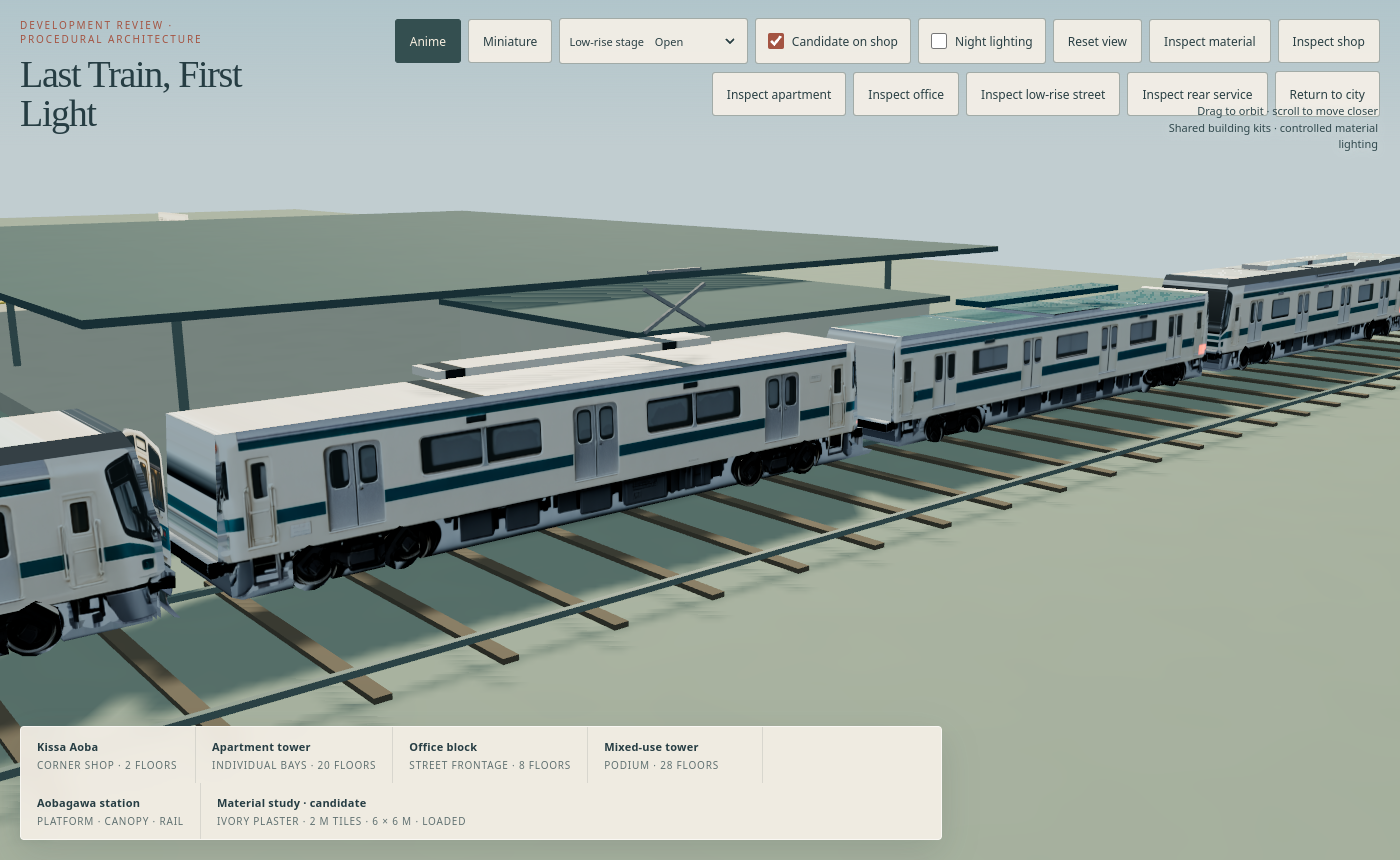
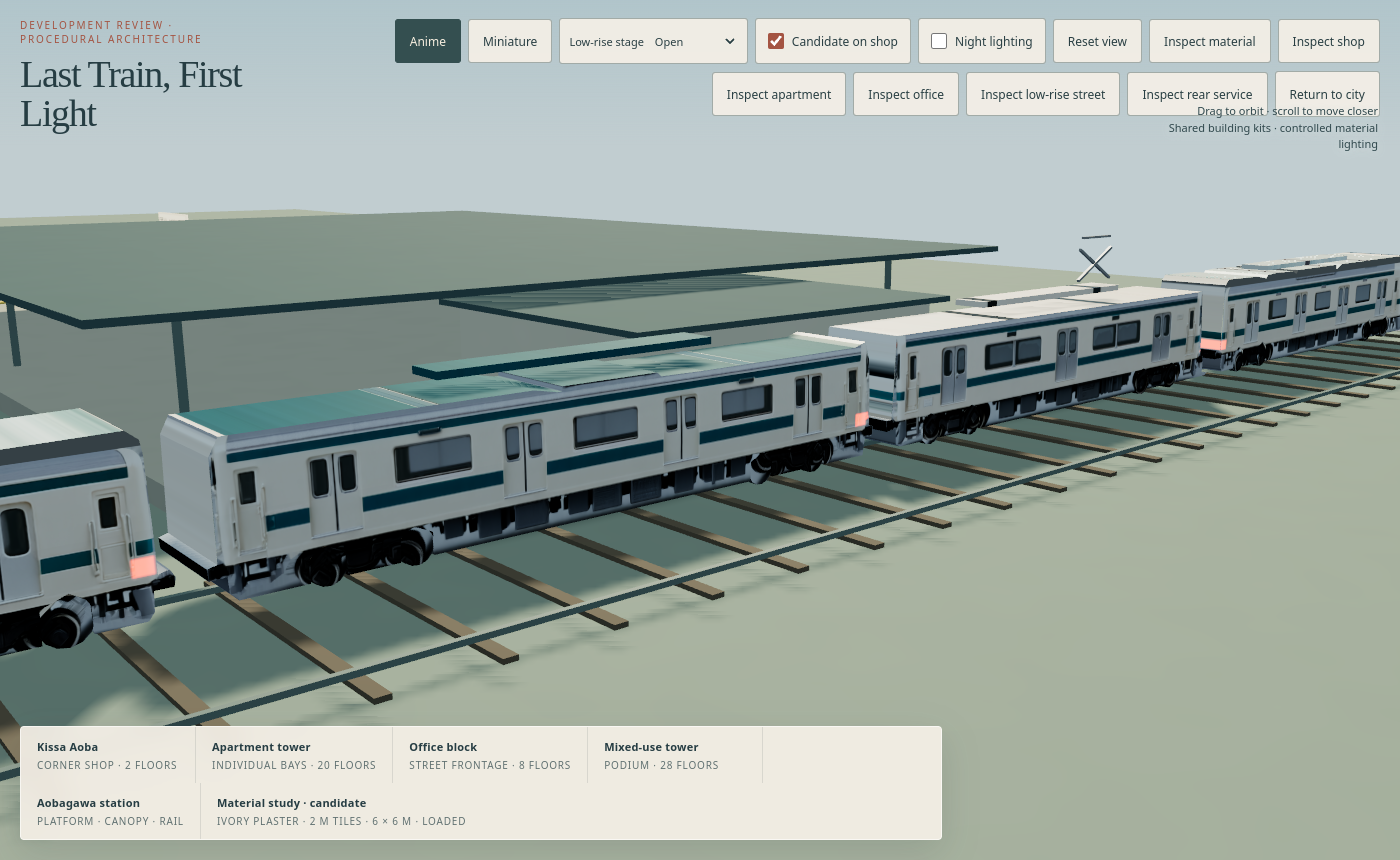
Fix train fleet lifecycle, capacities and cab direction (PR #13 review)
- city.ts calls trainFleet.begin() each frame and trainFleet.reset() on world
  reset, so transforms no longer accumulate or freeze.
- TrainFleet sizes each role's instance buffer by its multiplicity (cab twice
  per consist) and shadows by total cars; eight consists now render 32 cars.
- consistCars() puts the leading car at +offset so both cab faces and lamps
  point outward; only the trailing car is mirrored.
- Regression tests for multiplicity, per-frame reset and cab direction; fix the
  vitest config typing.

Changed region(s): [[0.0, 0.2721, 1.0, 0.786], [0.6143, 0.5744, 0.645, 0.6047], [0.0614, 0.8163, 0.0921, 0.8465]]

diff --git a/tests/trains.test.ts b/tests/trains.test.ts
@@ -6,43 +6,72 @@ import { consistCars } from '../web/src/render/train-kit';
 
 afterEach(() => vi.unstubAllGlobals());
 
+function fakeDocument() {
+  vi.stubGlobal('document', { createElement: () => ({ width: 0, height: 0, getContext: () => ({ fillRect() {}, fillText() {}, strokeRect() {} }) }) });
+}
+
+const CAR_COUNT = consistCars().length;
+
 describe('train fleet', () => {
-  it('places every car of a consist and reports the shared id for picking', () => {
-    vi.stubGlobal('document', { createElement: () => ({ width: 0, height: 0, getContext: () => ({ fillRect() {}, fillText() {}, strokeRect() {} }) }) });
+  it('sizes each role buffer by its multiplicity, not one per train', () => {
+    fakeDocument();
     const art = new ArtMaterials(), fleet = new TrainFleet(art, 8);
     fleet.begin();
-    fleet.add(7, 10, 20, Math.PI / 2, 6, 0, 1 / 60);
-    fleet.finish(1);
-    const counts = fleet.meshes.map(m => m.count);
-    expect(counts.reduce((a, b) => a + b, 0)).toBe(consistCars().length);
-    const ids = fleet.pickable.flatMap(p => p.ids);
-    expect(ids.length).toBe(consistCars().length);
-    expect(new Set(ids)).toEqual(new Set([7]));
+    for (let i = 0; i < 8; i++) fleet.add(100 + i, i * 120, 0, 0, 6, 0, 1 / 60);
+    fleet.finish(8);
+    const total = fleet.meshes.reduce((sum, mesh) => sum + mesh.count, 0);
+    // Eight four-car consists: two cabs per consist must not be silently dropped.
+    expect(total).toBe(CAR_COUNT * 8);
+    // The cab role carries two instances per consist, so it must exceed eight.
+    expect(fleet.meshes.filter(mesh => mesh.count === 16)).toHaveLength(1);
     fleet.dispose(); art.dispose();
   });
 
-  it('places the consist along its heading and mirrors the trailing cab', () => {
-    vi.stubGlobal('document', { createElement: () => ({ width: 0, height: 0, getContext: () => ({ fillRect() {}, fillText() {}, strokeRect() {} }) }) });
-    const art = new ArtMaterials(), fleet = new TrainFleet(art, 8);
+  it('resets counts and rewrites transforms every begin(), so city frames do not accumulate', () => {
+    fakeDocument();
+    const art = new ArtMaterials(), fleet = new TrainFleet(art, 4);
+    fleet.begin();
+    fleet.add(5, 0, 0, 0, 0, 0, 1 / 60);
+    fleet.finish(1);
+    const before = fleet.meshes.reduce((sum, mesh) => sum + mesh.count, 0);
+    // A later frame at a new position must land in slot zero, not a new slot.
+    fleet.begin();
+    fleet.add(5, 9, 0, 0, 0, 0, 1 / 60);
+    fleet.finish(1);
+    const after = fleet.meshes.reduce((sum, mesh) => sum + mesh.count, 0);
+    expect(before).toBe(CAR_COUNT);
+    expect(after).toBe(CAR_COUNT);
+    const matrix = new THREE.Matrix4();
+    const cab = fleet.meshes.find(mesh => mesh.count === 2)!;
+    cab.getMatrixAt(0, matrix);
+    expect(new THREE.Vector3().setFromMatrixPosition(matrix).x).toBeCloseTo(9, 3);
+    fleet.dispose(); art.dispose();
+  });
+
+  it('points the leading cab along the heading and the trailing cab backwards', () => {
+    fakeDocument();
+    const art = new ArtMaterials(), fleet = new TrainFleet(art, 2);
     fleet.begin();
     fleet.add(3, 0, 0, 0, 0, 0, 1 / 60);
     fleet.finish(1);
-    const cars = consistCars();
-    for (const mesh of fleet.meshes) {
-      const matrix = new THREE.Matrix4();
-      for (let i = 0; i < mesh.count; i++) {
-        mesh.getMatrixAt(i, matrix);
-        const p = new THREE.Vector3().setFromMatrixPosition(matrix);
-        // Heading 0 puts forward along +z; every car sits at its offset.
-        expect(cars.some(c => Math.abs(p.z - c.offset) < 1e-3)).toBe(true);
-      }
+    const cab = fleet.meshes.find(mesh => mesh.count === 2)!;
+    const matrix = new THREE.Matrix4(), pos = new THREE.Vector3(), xAxis = new THREE.Vector3(), yAxis = new THREE.Vector3(), zAxis = new THREE.Vector3();
+    const forwards: number[] = [];
+    for (let i = 0; i < cab.count; i++) {
+      cab.getMatrixAt(i, matrix);
+      pos.setFromMatrixPosition(matrix);
+      matrix.extractBasis(xAxis, yAxis, zAxis);
+      // Heading 0 is +z; the front cap is local +z. Forward must point away from centre.
+      forwards.push(Math.sign(pos.z) * zAxis.z);
     }
+    expect(forwards.length).toBe(2);
+    expect(forwards.every(f => f > .9), `both cabs face outward, got ${forwards}`).toBe(true);
     fleet.dispose(); art.dispose();
   });
 
   it('exports a half-length that matches the consist span', () => {
-    const spec = consistCars();
-    const span = Math.abs(spec[spec.length - 1].offset - spec[0].offset) + 20;
+    const cars = consistCars();
+    const span = Math.abs(cars[cars.length - 1].offset - cars[0].offset) + 20;
     expect(TRAIN_HALF_LENGTH * 2).toBeCloseTo(span, 1);
   });
 });

diff --git a/web/src/render/trains.ts b/web/src/render/trains.ts
@@ -8,7 +8,7 @@ import { VehicleMotion } from './vehicles';
 /** Half the consist length; mirrors engine/src/lib.rs TRAIN_HALF_LENGTH. */
 export const TRAIN_HALF_LENGTH = consistHalfLength();
 
-interface Slot { mesh: THREE.InstancedMesh; state: THREE.InstancedBufferAttribute; ids: number[]; count: number }
+interface Slot { mesh: THREE.InstancedMesh; state: THREE.InstancedBufferAttribute; ids: number[]; count: number; capacity: number }
 
 function instanced(geometry: THREE.BufferGeometry, material: THREE.Material, capacity: number) {
   const mesh = new THREE.InstancedMesh(geometry, material, capacity);
@@ -19,13 +19,16 @@ function instanced(geometry: THREE.BufferGeometry, material: THREE.Material, cap
 
 /**
  * Instanced train consists. The engine reports one movement point per train
- * (kind 2); the fleet expands it into the manifest's cars, places the cab at
- * the leading end and mirrors the trailing cab, and rolls every wheel.
+ * (kind 2); the fleet expands it into the manifest's cars, places the leading
+ * cab at +offset along the heading and mirrors the trailing cab, and rolls every
+ * wheel. Each role's instance buffer is sized by how often it appears in the
+ * consist, so a cab is not capped at one per train.
  */
 export class TrainFleet {
   readonly root = new THREE.Group();
   private slots = new Map<TrainCar, Slot>();
   private shadows: THREE.InstancedMesh;
+  private shadowCapacity: number;
   private shadowCount = 0;
   private matrix = new THREE.Matrix4();
   private pose = new THREE.Object3D();
@@ -36,19 +39,22 @@ export class TrainFleet {
     const material = trainMaterial(art);
     const roles: TrainCar[] = ['cab', 'trailer', 'motor'];
     for (const role of roles) {
+      const roleCapacity = this.cars.filter(car => car.role === role).length * capacity;
+      if (roleCapacity === 0) continue;
       const geometry = buildTrainCar(TRAIN_CLASS, role);
-      const mesh = instanced(geometry, material, capacity);
-      const state = new THREE.InstancedBufferAttribute(new Float32Array(capacity * 4), 4);
+      const mesh = instanced(geometry, material, roleCapacity);
+      const state = new THREE.InstancedBufferAttribute(new Float32Array(roleCapacity * 4), 4);
       state.setUsage(THREE.DynamicDrawUsage);
       geometry.setAttribute('vstate', state);
-      this.slots.set(role, { mesh, state, ids: [], count: 0 });
+      this.slots.set(role, { mesh, state, ids: [], count: 0, capacity: roleCapacity });
       this.root.add(mesh);
     }
     const plane = new THREE.PlaneGeometry(1, 1); plane.rotateX(-Math.PI / 2);
     const shade = new THREE.MeshBasicNodeMaterial({ color: '#1d2526', transparent: true, depthWrite: false });
     const d = uv().sub(vec2(.5, .5)).mul(vec2(2, 2)).length();
     shade.opacityNode = smoothstep(float(1), float(.35), d).mul(.42).sub(art.night.mul(.12));
-    this.shadows = new THREE.InstancedMesh(plane, shade, capacity);
+    this.shadowCapacity = this.cars.length * capacity;
+    this.shadows = new THREE.InstancedMesh(plane, shade, this.shadowCapacity);
     this.shadows.count = 0; this.shadows.frustumCulled = false; this.shadows.renderOrder = 1;
     this.shadows.instanceMatrix.setUsage(THREE.DynamicDrawUsage);
     this.root.add(this.shadows);
@@ -66,7 +72,7 @@ export class TrainFleet {
     const m = this.motion.update(id, x, z, yaw, spec.length * 2, dt);
     for (const car of this.cars) {
       const slot = this.slots.get(car.role)!;
-      if (slot.count >= this.capacity) continue;
+      if (slot.count >= slot.capacity) continue;
       const i = slot.count++;
       const cx = x + forwardX * car.offset, cz = z + forwardZ * car.offset;
       const carYaw = car.trailing ? yaw + Math.PI : yaw;
@@ -77,7 +83,7 @@ export class TrainFleet {
       slot.mesh.setMatrixAt(i, this.pose.matrix);
       slot.state.setXYZW(i, m.odo, 0, carYaw, m.brake);
       slot.ids[i] = id;
-      if (this.shadowCount < this.capacity) {
+      if (this.shadowCount < this.shadowCapacity) {
         this.pose.position.y = lift + .02; this.pose.scale.set(spec.width + .4, 1, spec.length + .4); this.pose.updateMatrix();
         this.shadows.setMatrixAt(this.shadowCount++, this.pose.matrix);
       }

diff --git a/web/src/render/city.ts b/web/src/render/city.ts
@@ -321,7 +321,7 @@ export class CityRenderer {
   }
   private resetWorld(){
     this.focusResetPending=true;
-    this.umbrellas.reset();this.buses.reset();this.fleet.reset();this.accessPaths.reset();this.rearExtensions.reset();this.umbrellaCount=0;this.qualityController.reset();
+    this.umbrellas.reset();this.buses.reset();this.fleet.reset();this.trainFleet.reset();this.accessPaths.reset();this.rearExtensions.reset();this.umbrellaCount=0;this.qualityController.reset();
     this.chunks.clear();
     this.buildings.clear();
     this.retireGroup(this.terrain);const near=this.treeNearGeometry,far=this.treeFarGeometry;this.retire(()=>{near?.dispose();far?.dispose();});this.treeNearGeometry=null;this.treeFarGeometry=null;this.treeBatches=[];this.terrain=new THREE.Group();this.scene.add(this.terrain);
@@ -580,7 +580,7 @@ export class CityRenderer {
     if(this.frame++%90===0&&this.onMetrics){const avg=this.frames.reduce((a,b)=>a+b,0)/this.frames.length;this.onMetrics({fps:1000/avg,frameMs:cost,calls:this.renderer.info.render.drawCalls,triangles:this.renderer.info.render.triangles,textures:this.renderer.info.memory.textures,geometries:this.renderer.info.memory.geometries,backend:this.renderer.backend.constructor.name,styleSwitch:this.styleSwitchMetrics?{...this.styleSwitchMetrics}:undefined,pendingBuildings:this.objectQueue.size,pendingChunks:this.chunks.pendingCount});}
   }
   private updateActors(now:number){
-    const t=Math.min(1,(now-this.received)/this.interval);let ped=0,train=0,bus=0;const dt=this.lastActorFrame?Math.min(.1,(now-this.lastActorFrame)/1000):1/60;this.lastActorFrame=now;this.buses.begin(now);this.fleet.begin();const pedIds:number[]=[],trainIds:number[]=[];
+    const t=Math.min(1,(now-this.received)/this.interval);let ped=0,train=0,bus=0;const dt=this.lastActorFrame?Math.min(.1,(now-this.lastActorFrame)/1000):1/60;this.lastActorFrame=now;this.buses.begin(now);this.fleet.begin();this.trainFleet.begin();const pedIds:number[]=[],trainIds:number[]=[];
     for(const [id,current]of this.current){const old=this.previous.get(id)??current,x=THREE.MathUtils.lerp(old.x,current.x,t),z=THREE.MathUtils.lerp(old.z,current.z,t);let h=current.h;const dh=Math.atan2(Math.sin(current.h-old.h),Math.cos(current.h-old.h));h=Math.PI/2-(old.h+dh*t);const lift=current.k===2?0:bridgeLift({x,z},this.bridgeSpans);
       if(current.k===0&&ped<2000){const offset=ped*5;this.umbrellaTuples[offset]=id;this.umbrellaTuples[offset+1]=x;this.umbrellaTuples[offset+2]=z;this.umbrellaTuples[offset+3]=Math.PI/2-h;this.umbrellaTuples[offset+4]=0;const moving=Math.hypot(current.x-old.x,current.z-old.z)>.01;const step=moving?Math.sin(this.motionTick*.31+id)*.045:0;dummy.position.set(x,1.05+step+lift,z);dummy.rotation.set(0,h,moving?step*.4:0);dummy.scale.setScalar(1);dummy.updateMatrix();this.pedestrians.setMatrixAt(ped,dummy.matrix);this.pedestrians.setColorAt(ped,personColors[id%personColors.length]);dummy.position.y=1.95+step+lift;dummy.updateMatrix();this.heads.setMatrixAt(ped,dummy.matrix);pedIds[ped]=id;ped++;}
       else if(isRoadVehicle(current.k)){const vehicle=bridgeVehiclePose({x,z},h,2.7,this.bridgeSpans);this.fleet.add(id,current.k,x,z,h,vehicle.lift,vehicle.pitch,dt);}

diff --git a/web/src/render/train-kit.ts b/web/src/render/train-kit.ts
@@ -180,10 +180,13 @@ export function buildTrainCar(cls: TrainClass, role: TrainCar) {
   return b.finish(0, belt);
 }
 
-/** Cars of one consist in travel order, front to rear, with centre offsets in metres. */
+/** Cars of one consist in travel order, front to rear, with centre offsets in metres.
+ * Index 0 is the leading car and takes the +offset (ahead along the heading);
+ * index n-1 is the trailing car at -offset. The front cap is local +z, so the
+ * leading car keeps the heading and only the trailing car is turned by PI. */
 export function consistCars(cls: TrainClass = TRAIN_CLASS) {
   const spec = trainClass(cls), n = spec.consist.length, pitch = spec.length + spec.gap;
-  return spec.consist.map((role, i) => ({ role, offset: (i - (n - 1) / 2) * pitch, leading: i === 0, trailing: i === n - 1 }));
+  return spec.consist.map((role, i) => ({ role, offset: ((n - 1) / 2 - i) * pitch, leading: i === 0, trailing: i === n - 1 }));
 }
 
 /** Half the total consist length; must equal the engine's TRAIN_HALF_LENGTH. */

diff --git a/tests/train-kit.test.ts b/tests/train-kit.test.ts
@@ -63,6 +63,11 @@ describe('train kit', () => {
     expect(cars.map(c => c.role)).toEqual(spec.consist);
     expect(cars[0].leading).toBe(true);
     expect(cars[cars.length - 1].trailing).toBe(true);
+    // The leading car is ahead of the centre (+offset) so its +z front cap and
+    // lamps point along the heading; only the trailing car is mirrored.
+    expect(cars[0].offset).toBeGreaterThan(0);
+    expect(cars[cars.length - 1].offset).toBeLessThan(0);
+    expect(cars[0].offset).toBeCloseTo(-cars[cars.length - 1].offset, 5);
     // Mirrors engine/src/lib.rs TRAIN_HALF_LENGTH.
     expect(consistHalfLength()).toBeCloseTo(40.9, 2);
   });

diff --git a/vite.config.ts b/vite.config.ts
@@ -1,4 +1,4 @@
-import { defineConfig } from 'vite';
+import { defineConfig } from 'vitest/config';
 export default defineConfig({
   server: { port: 5173, strictPort: true },
   build: { target: 'es2022' },

diff --git a/specs/05-rendering.md b/specs/05-rendering.md
@@ -6,7 +6,7 @@ Render one shared three-dimensional world with selectable material and shader tr
 
 Vehicle checkpoint (2026-10-12): road traffic and the city bus use bodies traced from generated side elevations (`scripts/build-vehicle-kits.py` → `public/art/vehicles`, `web/src/render/vehicle-manifest.json`). Eleven bodies share one material, a 2048×1024 atlas and a 1024×512 paint/lamp/glass mask (13.3 MiB decoded with mips) plus a 512×1024 canvas livery sheet. Each engine length class has weighted body variants (compact: hatch, crossover, minivan; kei: tall wagon, hatch, pickup; taxi: modern, classic sedan), and each vehicle gets a stable weighted paint, a few percent of shade and width variation, and one of thirteen invented operator liveries where it is a fleet vehicle. Bodies narrow toward each end in plan; fronts take corner lamps and a flat grille below the belt line. Wheels roll and steer in the vertex stage; lamps light at night with brake response. Traffic drives on the left: the engine's lane and kerb offsets (`KERB_LANE`, `BUS_STOP_KERB`) are negative along (-dz, dx), which is the driver's right in the renderer's right-handed y-up frame; bus doorways and the kerb-side elevation are on local +x. The engine reports the body class as the movement kind (1 compact, 4 kei, 5 taxi, 6 van, 7 truck, 8 mail van) and queues road vehicles at half their combined lengths plus 0.5 m, never below 4.5 m. Lane queues run every tick; a car enters a lane only a queue gap behind the last car in; driveways queue at both ends of the access path, and a car still waiting at its door is not emitted. Seed-87231 save over 2,000 ticks: 109 sub-2 m road-vehicle pair samples (31 under 1 m, all momentary driveway crossings), longest stationary vehicle 120 ticks. Hardware WebGL (ANGLE/OpenGL ES, RTX PRO 6000; `scripts/benchmark-vehicles.mjs`): 1,000 moving vehicles add about 0.8 ms per frame including updates and shadows, 16 draws and 0.36 M triangles. Open: WebGPU frame time (headless Chromium exposes no adapter here) and fascias, which remain approximations from the side elevation.
 
-Train checkpoint (2026-10-13): the commuter train consist uses bodies traced from generated elevations (`scripts/build-train-kits.py` → `public/art/trains`, `web/src/render/train-manifest.json`). One class, four cars (cab, trailer, motor, cab), each 20 m on a 0.6 m gangway, 81.8 m total. Three car sides and a head-on cab front cap share one 2048×1024 atlas and one 1024×512 mask; livery is baked into the atlas and the mask carries only lamps and glass, so unlike the road vehicles there is no per-instance paint. Cabs are oriented by travel direction and the trailing cab is mirrored; four wheels per car sit on two bogies and roll in the vertex stage; roofs carry air-conditioner boxes and the motor a pantograph; front and end lamps and the window band light at night. The engine's `TRAIN_HALF_LENGTH` is 40.9 m (mirrored by `consistHalfLength()`), and the station platform length follows it. Generated locally with HunyuanImage-2.1 (bf16); the front is seed-swept because the pilot showed raked or rounded faces often return as three-quarter views. A generator sweep also confirmed fp8 matches full bf16 quality and that the same pipeline can draw Shinkansen, subway and tram concepts, but those stay gated on world infrastructure. Hardware WebGL (ANGLE/OpenGL ES, RTX PRO 6000; `scripts/benchmark-trains.mjs`) adds four draw calls and about 13,100 triangles for eight consists (32 cars) over the empty-scene review baseline, and the frame-time differences stay within run-to-run noise. Tests cover the kit and fleet; concept-board art acceptance remains open.
+Train checkpoint (2026-10-13): the commuter train consist uses bodies traced from generated elevations (`scripts/build-train-kits.py` → `public/art/trains`, `web/src/render/train-manifest.json`). One class, four cars (cab, trailer, motor, cab), each 20 m on a 0.6 m gangway, 81.8 m total. Three car sides and a head-on cab front cap share one 2048×1024 atlas and one 1024×512 mask; livery is baked into the atlas and the mask carries only lamps and glass, so unlike the road vehicles there is no per-instance paint. Cabs are oriented by travel direction and the trailing cab is mirrored; four wheels per car sit on two bogies and roll in the vertex stage; roofs carry air-conditioner boxes and the motor a pantograph; front and end lamps and the window band light at night. The engine's `TRAIN_HALF_LENGTH` is 40.9 m (mirrored by `consistHalfLength()`), and the station platform length follows it. Generated locally with HunyuanImage-2.1 (bf16); the front is seed-swept because the pilot showed raked or rounded faces often return as three-quarter views. A generator sweep also confirmed fp8 matches full bf16 quality and that the same pipeline can draw Shinkansen, subway and tram concepts, but those stay gated on world infrastructure. Hardware WebGL (ANGLE/OpenGL ES, RTX PRO 6000; `scripts/benchmark-trains.mjs`) adds four draw calls and about 17,800 triangles for eight consists (32 cars) over the empty-scene review baseline, and the frame-time differences stay within run-to-run noise. Tests cover the kit and fleet; concept-board art acceptance remains open.
 
 Style-switch checkpoint (2026-10-10): warmup submits one material/layout representative at a time and yields a browser task between samples. Superseded requests stop before the next sample; the live material swap occurs after successful preparation. Founder WebGL observations reduce the largest uninterrupted submission from a multi-second all-layout call to under 100 ms per sample, but total warmup remains about ten seconds and mature/WebGPU/performance acceptance is open. See the audit for measurements and caveats.
 

diff --git a/specs/train-kit-plan.md b/specs/train-kit-plan.md
@@ -22,7 +22,7 @@ Related: [rendering spec](05-rendering.md), [world growth — rail and transit](
   (`frontier_proposal_scan_is_read_only_and_plan_road_replays`) also fails on
   the unmodified engine, so it is pre-existing.
 - Phase 5 benchmark: `scripts/benchmark-trains.mjs`; eight consists add four
-  draw calls and ~13,100 triangles. Open: art acceptance against the concept
+  draw calls and ~17,800 triangles. Open: art acceptance against the concept
   boards. The generator sweep is in
   [art-workshop/train-variants/REVIEW.md](../art-workshop/train-variants/REVIEW.md).
 
